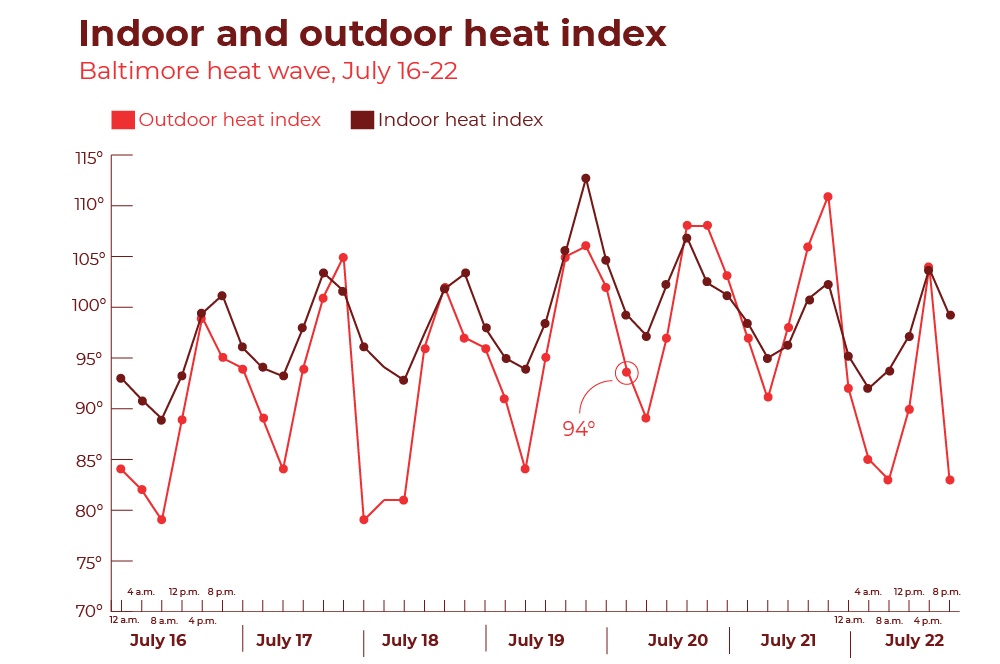
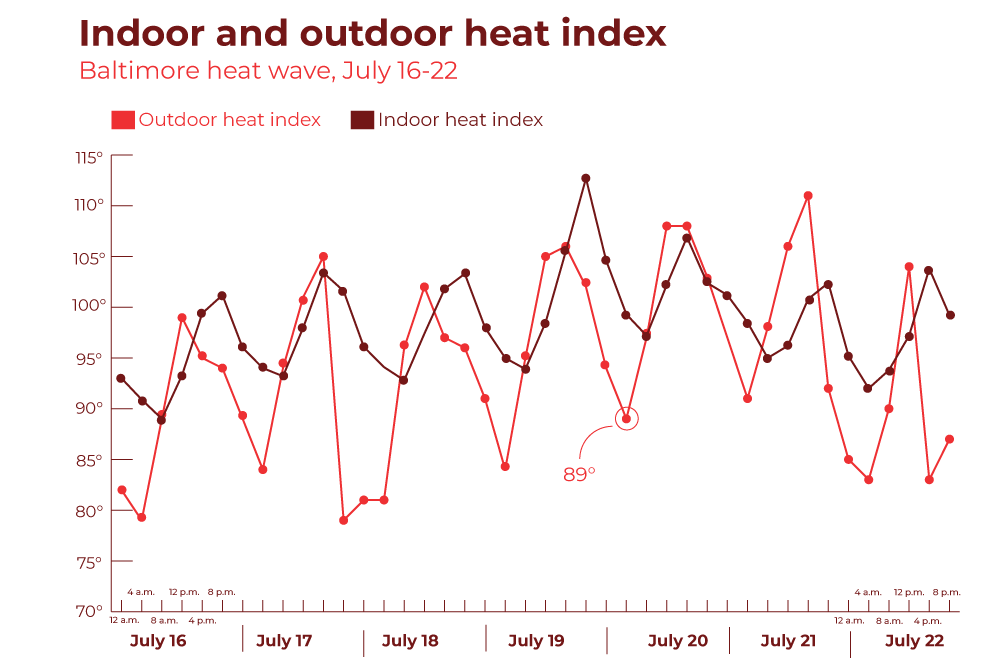
sensor changes

diff --git a/neighborhood-heat-inequality.html b/neighborhood-heat-inequality.html
@@ -420,7 +420,7 @@
             <p class="scrolling-text">The seven-day stretch between July 16 and July 22 were the hottest consecutive days of the summer.</p>
           </div>
           <div class='step'>
-            <p class="scrolling-text">The heat index reached 111 degrees on July 21 at 8 p.m.</p>
+            <p class="scrolling-text">The heat index reached 111 degrees on July 21 at 4 p.m.</p>
           </div>
           <div class='step'>
             <p class="scrolling-text">Capital News Service used indoor temperature sensors to record ambient temperature and humidity readings for the entire summer inside Stephanie Pingley’s home.</p>
@@ -438,13 +438,13 @@
             <p class="scrolling-text">The heat index in Stephanie’s home consistently exceeded that of the outdoors.</p>
           </div>
           <div class='step'>
-            <p class="scrolling-text">On Friday, July 19 at 8 p.m., in the midst of the summer's most brutal heat wave, the heat index hit a blistering 106 degrees in the Inner Harbor.</p>
+            <p class="scrolling-text">On Friday, July 19 at 8 p.m., in the midst of the summer's most brutal heat wave, the heat index hit a blistering 102 degrees in the Inner Harbor.</p>
           </div>
           <div class='step'>
-            <p class="scrolling-text">Inside Stephanie Pingley's house, it was 7 degrees hotter, with a heat index of 113 degrees.</p>
+            <p class="scrolling-text">Inside Stephanie Pingley's house, it was 11 degrees hotter, with a heat index of 113 degrees.</p>
           </div>
           <div class='step'>
-            <p class="scrolling-text">On Saturday, July 20, the heat index in Baltimore was still 94 degrees at 4 a.m. in the Inner Harbor.</p>
+            <p class="scrolling-text">On Saturday, July 20, the heat index in Baltimore was still 89 degrees at 4 a.m. in the Inner Harbor.</p>
           </div>
           <div class='step'>
             <p class="scrolling-text">Inside Stephanie Pingley's house, in the bedroom where two children sleep, it felt even hotter, with a heat index of 99 degrees.</p>
